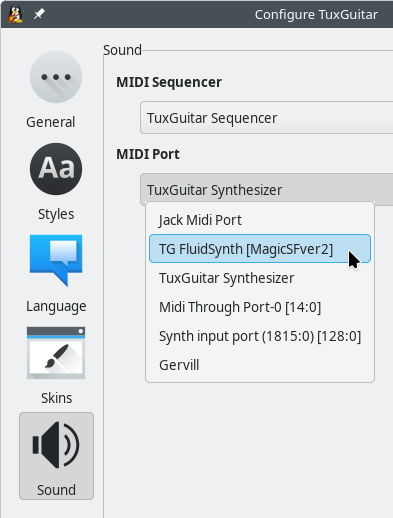
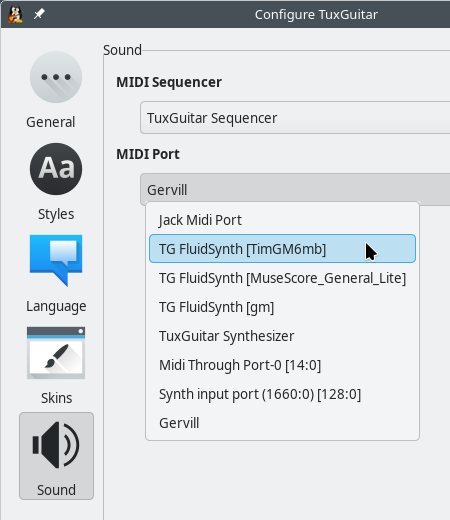
Update help for the output plugins, mainly TuxGuitar Synthesizer Gervill, LV2, export

diff --git a/desktop/TuxGuitar/share/help/tools_sound.html b/desktop/TuxGuitar/share/help/tools_sound.html
@@ -52,10 +52,10 @@
     </ul>
   </div>
   <section>
-    <p>First of all, it is important to mention that TuxGuitar is written in the Java programming language. Therefore, the audio output methods are heavily depending on Java. There is a dedicated layer in Java for MIDI sound, which uses "soundbanks". A soundbank is a file that contains sound samples for all the required instruments.</p>
+    <p>First of all, it is important to mention that TuxGuitar is written in the Java programming language. Therefore, the audio output methods are heavily depending on Java. There is a dedicated API in Java for MIDI sound, which uses "soundbanks", also called soundfonts. A soundbank is a file that contains sound samples for all the required instruments.</p>
     <p>In TuxGuitar prior to version 1.0, using the soundbanks was the only way to play the sound, and it was totally independent of your system MIDI settings.</p>
     <p>Since version 1.0, TuxGuitar includes several operating system dependent plugins that allow audio output over the system's MIDI devices. The appropriate plugins are included in the distribution packages for the various operating systems, so you don't need to install them manually. By default, the plugin best suited for your operating system is activated, but you can switch to another one in the plugin dialog, if you want to use some special output functions.</p>
-    <h2>Sound settings</h2>
+    <h2 id="sound_settings">Sound settings</h2>
     <p>In the <strong>Tools → Settings → Sound</strong> dialog, you can select the <strong>MIDI Sequencer</strong>, i.e. the pice of software that extracts the MIDI events from all tracks stored in TuxGuitar and combines them into the currently played MIDI sequence, a list of time-stamped MIDI data. This sequence is then sent to the <strong>MIDI Port</strong>, where it is converted into the actual audio stream by combining the MIDI events with the sound samples extracted from the soundbank file or from other sources. The audio stream can also be further processed, mixed, etc., and is finally output to the loudspeakers.</p>
     <img src="images/settings_sound.png" />
     <h2>Audio Output Plugins</h2>
@@ -63,6 +63,8 @@
     <img src="images/sound_plugins.png" />
     <p>The images above show all available audio output plugins on Linux, Windows, macOS and FreeBSD.</p>
     <p>In the the tables below you can see the MIDI sequencers and ports provided by the plugins and the default output settings for each OS.</p>
+    <p><strong>Bold Plugin name</strong>: Plugin is activated by default<br />
+    <strong>Bold MIDI Sequencer/Port</strong>: Default sound output</p>
     <table><tbody>
       <tr><td class="head" colspan="3">Output Plugins on Linux</td></tr>
       <tr><td class="head">Plugin name</td>                <td class="head">MIDI Sequencer</td>        <td class="head">MIDI Port</td></tr>
@@ -98,18 +100,30 @@
       <tr><td class="norm">Java Sound API</td>             <td class="norm">Real Time Sequencer</td>   <td class="norm">Gervill</td></tr>
       <tr><td class="bold">FluidSynth</td>                 <td class="norm">-</td>                     <td class="bold">TG FluidSynth [SF-file]</td></tr>
     </tbody></table>
-    <p><strong>Bold Plugin name</strong>: Plugin is activated by default<br />
-    <strong>Bold MIDI Sequencer/Port</strong>: Default sound output</p>
     <p>Some MIDI ports are automatically detected by the OS and may differ on your system.</p>
-    <p>The <strong>TuxGuitar Sequencer*</strong> is built-in and always available, even if no plugin is enabled. There is no built-in MIDI port, all MIDI ports are provided via plugins.</p>
-    <p>Beside the TuxGuitar Synthesizer output plugin there are other TuxGuitar Synthesizer plugins available. These plugins depend on the TuxGuitar Synthesizer output plugin and do not add any MIDI sequencer or port, but provide other features.</p>
-    <h2 id="java_sound">Java Sound</h2>
-    <p>The Java Sound plugin, relying on a SF2 soundbank file, is still available in the form of the "Java Sound API output plugin" on all supported desktop operating systems. You can change the soundbank with the "Configure" button in the <strong><a href="tools_plugins.html">plugins dialog</a></strong>:</p>
+    <p><strong>*</strong> The <strong>TuxGuitar Sequencer</strong> is built-in and always available, even if no plugin is enabled. There is no built-in MIDI port, all MIDI ports are provided via plugins.</p>
+    <h2 id="tuxguitar_synth">TuxGuitar Synthesizer</h2>
+    <p>The TuxGuitar Synthesizer consists of four plugins that depend on each other.</p>
+    <h3 id="tuxguitar_synth">TuxGuitar Synthesizer output plugin</h3>
+    <p>The <strong>TuxGuitar Synthesizer output plugin</strong> adds the TuxGuitar Synthesizer MIDI Port, but cannot produce any sound output on its own.</p>
+    <h3 id="tuxguitar_synth">Gervill and LV2 extensions</h3>
+    <p>The audio output is handled by the <strong>Gervill extension</strong> plugin. In the plugin settings, you can select an SF2 or a DLS soundfont for the sound generation. By default, the "Magic Sound Font 2.0" is used.</p>
+    <img src="images/sound_synth_soundbank.png" />
+    <p>With the Gervill extension, you can also select an individual soundfont and choose different MIDI settings for each instrument, as you can see in the screenshot below.</p>
+    <p>The <strong>LV2 extension</strong> is optional. It allows you to activate LV2 effect plugins for your instruments. TuxGuitar itself does not include any LV2 plugins, but you can load all LV2 plugins provided by the <strong>Guitarix</strong> virtual amplifier, for example. On Linux, just install the package named "guitarix-lv2" or similar, and TuxGuitar will automatically find all LV2 plugins on startup.</p>
+    <p>Both the Gervill and the LV2 extension are set up in the instrument settings of the <strong><a href="editing_song.html#instruments_dialog">Instuments dialog</a></strong> box. Please note that all the settings you make here are not stored in your computer's local TuxGuitar settings, but directly in the TuxGuitar tablature file.</p>
+    <img src="images/sound_synth_gervill_lv2.png" />
+    <h3 id="tuxguitar_synth">Audio file export</h3>
+    <p>With the <strong>Audio file export</strong> extension, you can write your song to an audio file using the TuxGuitar Synthesizer with the Gervill and LV2 extension settings from above. Please note that this extension does not allow you to export the audio stream from other output plugins such as FluidSynth or ALSA.</p>
+    <img src="images/sound_synth_export.png" />
+    <h2 id="java_sound">Java Sound API</h2>
+    <p>The <strong>Java Sound API output plugin</strong>, relying on an SF2 or a DLS soundbank file, is still available on all desktop operating systems. You can change the soundbank with the "Configure" button in the <strong><a href="tools_plugins.html">plugins dialog</a></strong>:</p>
     <img src="images/sound_jsa_soundbank.png" />
-    <p>If the plugin is enabled, in the Sound tab of the <strong>Tools → Settings</strong> dialog you can choose the <strong>Real Time Sequencer</strong> as <strong>MIDI Sequencer</strong> and the <strong>MIDI Port</strong> called "Gervill".</p>
+    <p>If the plugin is enabled, in the Sound tab of the <strong>Tools → Settings</strong> dialog you can choose the <strong>Real Time Sequencer</strong> as <strong>MIDI Sequencer</strong> and the <strong>MIDI Port</strong> called <strong>Gervill</strong>.</p>
     <h2 id="platform-dependent_plugins">Platform-dependent Output Plugins</h2>
-    <p>If you have the TuxGuitar ALSA plugin enabled on Linux or if you are running TuxGuitar on the Windows platform, TuxGuitar detects your system MIDI ports (devices) automatically.</p>
-    <p>So it depends on your system settings, but anyway, if the proper plugin is enabled and working you should see the system ports in the <strong>MIDI Port</strong> list in the Sound tab of the <strong>Tools → Settings</strong> dialog. Choosing the right one enables your native MIDI sound in TuxGuitar.</p>
+    <p>If you have enabled the <strong>ALSA output plugin</strong> on Linux or are using the <strong>WinMM output plugin</strong> on Windows, TuxGuitar will automatically detect your system MIDI ports (devices). These should show up in the <strong>MIDI Port</strong> list in the <strong><a href="#sound_settings">sound settings</a></strong>.</p>
+    <p>The <strong>FluidSynth output plugin</strong> allows you to load SF2, SF3 and DLS soundbanks on Linux, Windows and FreeBSD. You can load multiple soundbanks in the plugin settings and choose each individual one as a MIDI Port in the <strong><a href="#sound_settings">sound settings</a></strong>.</p>
+    <p>On macOS, you can load SF2 and DLS soundbanks with the <strong>Audio Unit output plugin</strong>.</p>
   </section>
 </body>
 </html>
